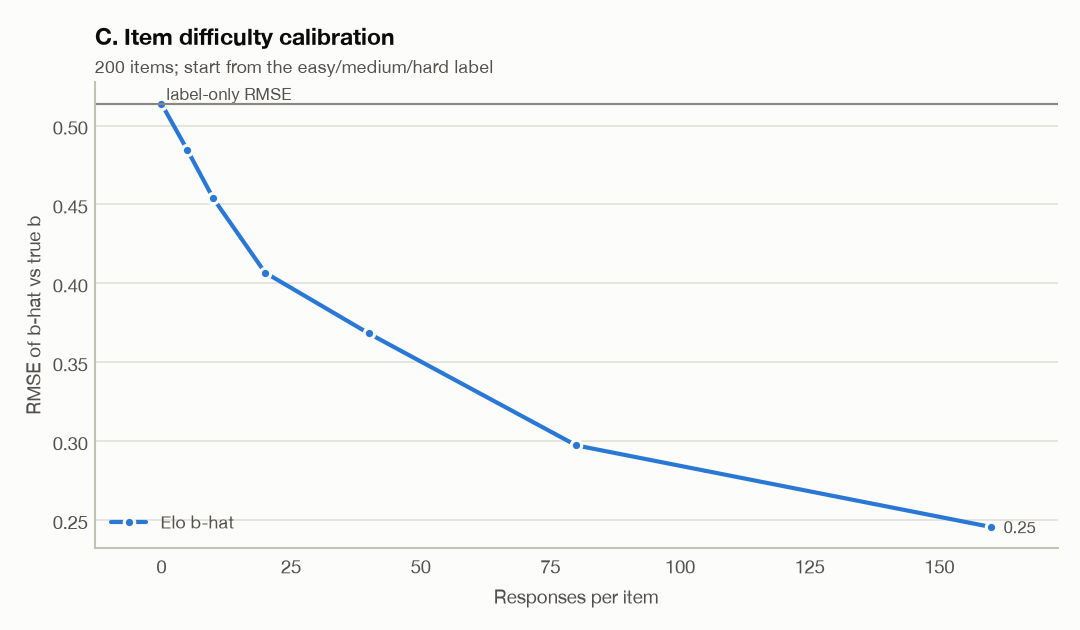
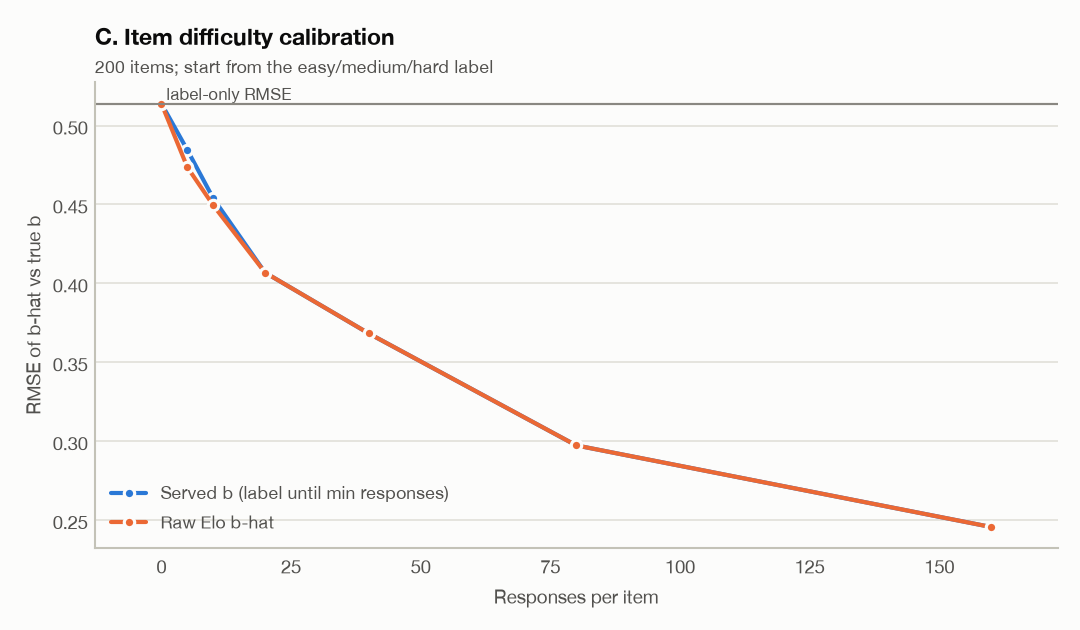
app: evidence sharing off by default; sim c figure shows served and raw b

diff --git a/src/eduai/sim/plots.py b/src/eduai/sim/plots.py
@@ -142,13 +142,15 @@ def sim_figures(res: dict, out: Path) -> list[Path]:
     p = out / "sim_c_calibration.png"
     line_chart(
         p,
-        [("Elo b-hat", xs, [c[k] for k in c])],
+        [
+            ("Served b (label until min responses)", xs, [c[k] for k in c]),
+            ("Raw Elo b-hat", xs, list(res["C"]["raw_rmse_by_responses"].values())),
+        ],
         "C. Item difficulty calibration",
         "Responses per item",
         "RMSE of b-hat vs true b",
         f"{res['C']['items']} items; start from the easy/medium/hard label",
         reference=("label-only RMSE", res["C"]["label_only_rmse"]),
-        end_labels=True,
     )
     paths.append(p)
 

diff --git a/src/eduai/web/service.py b/src/eduai/web/service.py
@@ -131,6 +131,8 @@ class Service:
             weights,
             los,
             graph=self.graph,
+            # Evidence sharing is off: in simulation D it did not improve mastery estimates.
+            share=False,
             sd_stop=row["sd_stop"] if row["mode"] == "assessment" else irt.SD_STOP,
         )
         for r in self.conn.execute("SELECT * FROM responses WHERE session_id = ? ORDER BY seq", (sid,)):
